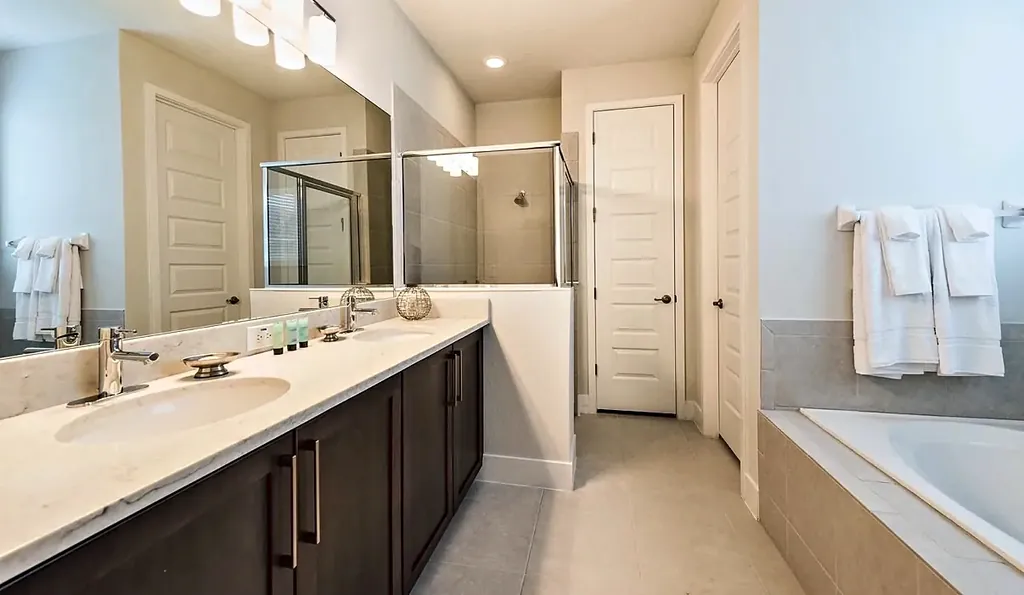
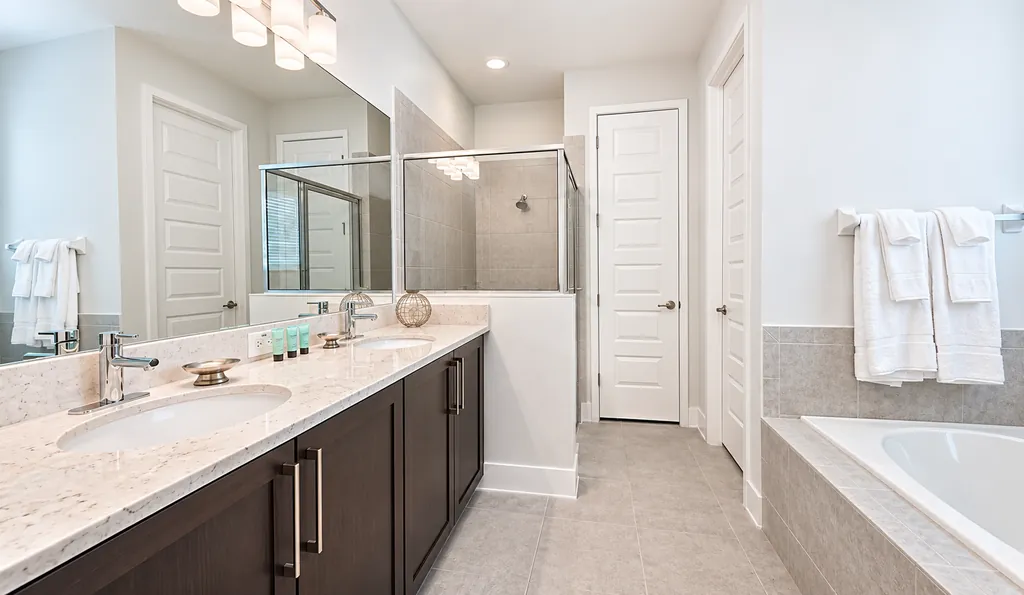
Replace double-vanity bathroom photo with the enhanced version

diff --git a/index.html b/index.html
@@ -9,7 +9,7 @@
 
   <meta property="og:title" content="Villa Serena · 8-Bedroom Private Pool Villa">
   <meta property="og:description" content="8 bedrooms · 8 bathrooms · 13 beds · private pool. Book your family's Orlando stay direct.">
-  <meta property="og:image" content="assets/img/pool-lanai.jpg?v=17">
+  <meta property="og:image" content="assets/img/pool-lanai.jpg?v=18">
   <meta property="og:type" content="website">
 
   <link rel="icon" href="assets/favicon.svg" type="image/svg+xml">
@@ -17,8 +17,8 @@
   <link rel="preconnect" href="https://fonts.gstatic.com" crossorigin>
   <link href="https://fonts.googleapis.com/css2?family=Newsreader:ital,opsz,wght@0,6..72,400;0,6..72,500;1,6..72,400&family=Instrument+Sans:wght@400;500;600&display=swap" rel="stylesheet">
 
-  <link rel="preload" as="image" href="assets/img/pool-lanai-1616.webp?v=17"
-        imagesrcset="assets/img/pool-lanai-640.webp?v=17 640w, assets/img/pool-lanai-1024.webp?v=17 1024w, assets/img/pool-lanai-1616.webp?v=17 1616w"
+  <link rel="preload" as="image" href="assets/img/pool-lanai-1616.webp?v=18"
+        imagesrcset="assets/img/pool-lanai-640.webp?v=18 640w, assets/img/pool-lanai-1024.webp?v=18 1024w, assets/img/pool-lanai-1616.webp?v=18 1616w"
         imagesizes="100vw" type="image/webp">
   <link rel="stylesheet" href="css/styles.css">
 </head>
@@ -79,9 +79,9 @@
   <div class="hero-media">
     <picture>
       <source type="image/webp"
-              srcset="assets/img/pool-lanai-640.webp?v=17 640w, assets/img/pool-lanai-1024.webp?v=17 1024w, assets/img/pool-lanai-1616.webp?v=17 1616w"
+              srcset="assets/img/pool-lanai-640.webp?v=18 640w, assets/img/pool-lanai-1024.webp?v=18 1024w, assets/img/pool-lanai-1616.webp?v=18 1616w"
               sizes="100vw">
-      <img src="assets/img/pool-lanai.jpg?v=17" alt="The villa's private pool and spa with sun loungers and a covered lanai" width="1616" height="967" fetchpriority="high">
+      <img src="assets/img/pool-lanai.jpg?v=18" alt="The villa's private pool and spa with sun loungers and a covered lanai" width="1616" height="967" fetchpriority="high">
     </picture>
   </div>
   <div class="hero-shade" aria-hidden="true"></div>
@@ -117,14 +117,14 @@
     <div class="welcome-media reveal">
       <figure class="wm-main">
         <picture>
-          <source type="image/webp" srcset="assets/img/exterior-front-640.webp?v=17 640w, assets/img/exterior-front-1024.webp?v=17 1024w, assets/img/exterior-front-1206.webp?v=17 1206w" sizes="(min-width: 960px) 40vw, 90vw">
-          <img src="assets/img/exterior-front.jpg?v=17" alt="Front exterior of the two-storey villa with a paver driveway" width="1206" height="712" loading="lazy" decoding="async">
+          <source type="image/webp" srcset="assets/img/exterior-front-640.webp?v=18 640w, assets/img/exterior-front-1024.webp?v=18 1024w, assets/img/exterior-front-1206.webp?v=18 1206w" sizes="(min-width: 960px) 40vw, 90vw">
+          <img src="assets/img/exterior-front.jpg?v=18" alt="Front exterior of the two-storey villa with a paver driveway" width="1206" height="712" loading="lazy" decoding="async">
         </picture>
       </figure>
       <figure class="wm-accent">
         <picture>
-          <source type="image/webp" srcset="assets/img/dining-living-640.webp?v=17 640w, assets/img/dining-living-1024.webp?v=17 1024w" sizes="(min-width: 960px) 22vw, 50vw">
-          <img src="assets/img/dining-living.jpg?v=17" alt="Open-plan dining area with a large table and the living room beyond" width="2560" height="1920" loading="lazy" decoding="async">
+          <source type="image/webp" srcset="assets/img/dining-living-640.webp?v=18 640w, assets/img/dining-living-1024.webp?v=18 1024w" sizes="(min-width: 960px) 22vw, 50vw">
+          <img src="assets/img/dining-living.jpg?v=18" alt="Open-plan dining area with a large table and the living room beyond" width="2560" height="1920" loading="lazy" decoding="async">
         </picture>
       </figure>
           </div>
@@ -135,15 +135,15 @@
 <section class="photo-band" aria-label="The kitchen and living room">
   <figure>
     <picture>
-      <source type="image/webp" srcset="assets/img/kitchen-640.webp?v=17 640w, assets/img/kitchen-1024.webp?v=17 1024w, assets/img/kitchen-1206.webp?v=17 1206w" sizes="(min-width: 760px) 50vw, 100vw">
-      <img src="assets/img/kitchen.jpg?v=17" alt="Kitchen with dark cabinets, stainless appliances and an island with four bar stools" width="1206" height="711" loading="lazy" decoding="async">
+      <source type="image/webp" srcset="assets/img/kitchen-640.webp?v=18 640w, assets/img/kitchen-1024.webp?v=18 1024w, assets/img/kitchen-1206.webp?v=18 1206w" sizes="(min-width: 760px) 50vw, 100vw">
+      <img src="assets/img/kitchen.jpg?v=18" alt="Kitchen with dark cabinets, stainless appliances and an island with four bar stools" width="1206" height="711" loading="lazy" decoding="async">
     </picture>
     <figcaption>Kitchen</figcaption>
   </figure>
   <figure>
     <picture>
-      <source type="image/webp" srcset="assets/img/living-room-640.webp?v=17 640w, assets/img/living-room-1024.webp?v=17 1024w, assets/img/living-room-1536.webp?v=17 1536w" sizes="(min-width: 760px) 50vw, 100vw">
-      <img src="assets/img/living-room.jpg?v=17" alt="Living room with sectional sofa and sliding doors to the pool" width="1536" height="1024" loading="lazy" decoding="async">
+      <source type="image/webp" srcset="assets/img/living-room-640.webp?v=18 640w, assets/img/living-room-1024.webp?v=18 1024w, assets/img/living-room-1536.webp?v=18 1536w" sizes="(min-width: 760px) 50vw, 100vw">
+      <img src="assets/img/living-room.jpg?v=18" alt="Living room with sectional sofa and sliding doors to the pool" width="1536" height="1024" loading="lazy" decoding="async">
     </picture>
     <figcaption>Living room</figcaption>
   </figure>
@@ -250,20 +250,20 @@
     <div class="villa-band reveal">
       <figure>
         <picture>
-          <source type="image/webp" srcset="assets/img/bedroom-twin-beds-640.webp?v=17 640w, assets/img/bedroom-twin-beds-1024.webp?v=17 1024w, assets/img/bedroom-twin-beds-1600.webp?v=17 1600w" sizes="(min-width: 960px) 33vw, 100vw">
-          <img src="assets/img/bedroom-twin-beds.jpg?v=17" alt="Bedroom with two beds, a tufted headboard and a mustard accent wall" width="2560" height="1920" loading="lazy" decoding="async">
+          <source type="image/webp" srcset="assets/img/bedroom-twin-beds-640.webp?v=18 640w, assets/img/bedroom-twin-beds-1024.webp?v=18 1024w, assets/img/bedroom-twin-beds-1600.webp?v=18 1600w" sizes="(min-width: 960px) 33vw, 100vw">
+          <img src="assets/img/bedroom-twin-beds.jpg?v=18" alt="Bedroom with two beds, a tufted headboard and a mustard accent wall" width="2560" height="1920" loading="lazy" decoding="async">
         </picture>
       </figure>
       <figure>
         <picture>
-          <source type="image/webp" srcset="assets/img/bunk-room-640.webp?v=17 640w, assets/img/bunk-room-1024.webp?v=17 1024w, assets/img/bunk-room-1600.webp?v=17 1600w" sizes="(min-width: 960px) 33vw, 100vw">
-          <img src="assets/img/bunk-room.jpg?v=17" alt="Kids' bunk room with a mural wall" width="2560" height="1920" loading="lazy" decoding="async">
+          <source type="image/webp" srcset="assets/img/bunk-room-640.webp?v=18 640w, assets/img/bunk-room-1024.webp?v=18 1024w, assets/img/bunk-room-1600.webp?v=18 1600w" sizes="(min-width: 960px) 33vw, 100vw">
+          <img src="assets/img/bunk-room.jpg?v=18" alt="Kids' bunk room with a mural wall" width="2560" height="1920" loading="lazy" decoding="async">
         </picture>
       </figure>
       <figure>
         <picture>
-          <source type="image/webp" srcset="assets/img/bathroom-double-vanity-640.webp?v=17 640w, assets/img/bathroom-double-vanity-1024.webp?v=17 1024w, assets/img/bathroom-double-vanity-1206.webp?v=17 1206w" sizes="(min-width: 960px) 33vw, 100vw">
-          <img src="assets/img/bathroom-double-vanity.jpg?v=17" alt="Bathroom with a vanity, glass shower and tub" width="1206" height="701" loading="lazy" decoding="async">
+          <source type="image/webp" srcset="assets/img/bathroom-double-vanity-640.webp?v=18 640w, assets/img/bathroom-double-vanity-1024.webp?v=18 1024w, assets/img/bathroom-double-vanity-1600.webp?v=18 1600w, assets/img/bathroom-double-vanity-1645.webp?v=18 1645w" sizes="(min-width: 960px) 33vw, 100vw">
+          <img src="assets/img/bathroom-double-vanity.jpg?v=18" alt="Bathroom with a double vanity, glass shower and tub" width="1645" height="956" loading="lazy" decoding="async">
         </picture>
       </figure>
     </div>
@@ -277,9 +277,9 @@
       <div class="amen-feature reveal">
         <figure class="amen-photo">
           <picture>
-            <source type="image/webp" media="(min-width: 641px) and (max-width: 960px)" srcset="assets/img/pool-deck-640.webp?v=17 640w, assets/img/pool-deck-1024.webp?v=17 1024w, assets/img/pool-deck-1206.webp?v=17 1206w" sizes="100vw">
-            <source type="image/webp" srcset="assets/img/pool-deck-tall-640.webp?v=17 640w, assets/img/pool-deck-tall-1024.webp?v=17 1024w, assets/img/pool-deck-tall-1086.webp?v=17 1086w" sizes="(min-width: 960px) 45vw, 100vw">
-            <img src="assets/img/pool-deck-tall.jpg?v=17" alt="Pool deck with spa, loungers and outdoor dining under a blue sky" width="1086" height="1448" loading="lazy" decoding="async">
+            <source type="image/webp" media="(min-width: 641px) and (max-width: 960px)" srcset="assets/img/pool-deck-640.webp?v=18 640w, assets/img/pool-deck-1024.webp?v=18 1024w, assets/img/pool-deck-1206.webp?v=18 1206w" sizes="100vw">
+            <source type="image/webp" srcset="assets/img/pool-deck-tall-640.webp?v=18 640w, assets/img/pool-deck-tall-1024.webp?v=18 1024w, assets/img/pool-deck-tall-1086.webp?v=18 1086w" sizes="(min-width: 960px) 45vw, 100vw">
+            <img src="assets/img/pool-deck-tall.jpg?v=18" alt="Pool deck with spa, loungers and outdoor dining under a blue sky" width="1086" height="1448" loading="lazy" decoding="async">
           </picture>
           <figcaption>
             <strong>Fully private pool area</strong>
@@ -337,29 +337,29 @@
     <div class="amen-strip reveal" aria-label="More of the villa">
       <figure>
         <picture>
-          <source type="image/webp" srcset="assets/img/sitting-area-640.webp?v=17 640w, assets/img/sitting-area-1024.webp?v=17 1024w, assets/img/sitting-area-1600.webp?v=17 1600w" sizes="(min-width: 960px) 25vw, 70vw">
-          <img src="assets/img/sitting-area.jpg?v=17" alt="Sitting area with two armchairs and large blue and gold artwork" width="2560" height="1920" loading="lazy" decoding="async">
+          <source type="image/webp" srcset="assets/img/sitting-area-640.webp?v=18 640w, assets/img/sitting-area-1024.webp?v=18 1024w, assets/img/sitting-area-1600.webp?v=18 1600w" sizes="(min-width: 960px) 25vw, 70vw">
+          <img src="assets/img/sitting-area.jpg?v=18" alt="Sitting area with two armchairs and large blue and gold artwork" width="2560" height="1920" loading="lazy" decoding="async">
         </picture>
         <figcaption>Sitting area</figcaption>
       </figure>
       <figure>
         <picture>
-          <source type="image/webp" srcset="assets/img/home-theater-640.webp?v=17 640w, assets/img/home-theater-1024.webp?v=17 1024w, assets/img/home-theater-1206.webp?v=17 1206w" sizes="(min-width: 960px) 25vw, 70vw">
-          <img src="assets/img/home-theater.jpg?v=17" alt="Home theater with a large screen and recliner seating" width="1206" height="800" loading="lazy" decoding="async">
+          <source type="image/webp" srcset="assets/img/home-theater-640.webp?v=18 640w, assets/img/home-theater-1024.webp?v=18 1024w, assets/img/home-theater-1206.webp?v=18 1206w" sizes="(min-width: 960px) 25vw, 70vw">
+          <img src="assets/img/home-theater.jpg?v=18" alt="Home theater with a large screen and recliner seating" width="1206" height="800" loading="lazy" decoding="async">
         </picture>
         <figcaption>Home theater</figcaption>
       </figure>
       <figure>
         <picture>
-          <source type="image/webp" srcset="assets/img/game-room-640.webp?v=17 640w, assets/img/game-room-1024.webp?v=17 1024w, assets/img/game-room-1600.webp?v=17 1600w" sizes="(min-width: 960px) 25vw, 70vw">
-          <img src="assets/img/game-room.jpg?v=17" alt="Game room with table tennis, foosball and an arcade cabinet" width="2560" height="1920" loading="lazy" decoding="async">
+          <source type="image/webp" srcset="assets/img/game-room-640.webp?v=18 640w, assets/img/game-room-1024.webp?v=18 1024w, assets/img/game-room-1600.webp?v=18 1600w" sizes="(min-width: 960px) 25vw, 70vw">
+          <img src="assets/img/game-room.jpg?v=18" alt="Game room with table tennis, foosball and an arcade cabinet" width="2560" height="1920" loading="lazy" decoding="async">
         </picture>
         <figcaption>Game room</figcaption>
       </figure>
       <figure>
         <picture>
-          <source type="image/webp" srcset="assets/img/dining-room-640.webp?v=17 640w, assets/img/dining-room-1024.webp?v=17 1024w, assets/img/dining-room-1600.webp?v=17 1600w" sizes="(min-width: 960px) 25vw, 70vw">
-          <img src="assets/img/dining-room.jpg?v=17" alt="Dining room with a large white table and chandelier" width="2560" height="1920" loading="lazy" decoding="async">
+          <source type="image/webp" srcset="assets/img/dining-room-640.webp?v=18 640w, assets/img/dining-room-1024.webp?v=18 1024w, assets/img/dining-room-1600.webp?v=18 1600w" sizes="(min-width: 960px) 25vw, 70vw">
+          <img src="assets/img/dining-room.jpg?v=18" alt="Dining room with a large white table and chandelier" width="2560" height="1920" loading="lazy" decoding="async">
         </picture>
         <figcaption>Dining</figcaption>
       </figure>
@@ -431,8 +431,8 @@
 <section class="book" id="book">
   <div class="book-media" aria-hidden="true">
     <picture>
-      <source type="image/webp" srcset="assets/img/exterior-front-640.webp?v=17 640w, assets/img/exterior-front-1024.webp?v=17 1024w, assets/img/exterior-front-1206.webp?v=17 1206w" sizes="100vw">
-      <img src="assets/img/exterior-front.jpg?v=17" alt="" width="1206" height="712" loading="lazy" decoding="async">
+      <source type="image/webp" srcset="assets/img/exterior-front-640.webp?v=18 640w, assets/img/exterior-front-1024.webp?v=18 1024w, assets/img/exterior-front-1206.webp?v=18 1206w" sizes="100vw">
+      <img src="assets/img/exterior-front.jpg?v=18" alt="" width="1206" height="712" loading="lazy" decoding="async">
     </picture>
   </div>
   <div class="book-shade" aria-hidden="true"></div>

diff --git a/js/main.js b/js/main.js
@@ -27,7 +27,7 @@ const PHOTOS = [
   { slug: "bunk-room",             cat: "bedrooms",  caption: "Kids' bunk room",                    w: 2560 },
   { slug: "bedroom-teal",          cat: "bedrooms",  caption: "Bedroom",                            w: 2560, size: "wide" },
   { slug: "pool-deck",             cat: "outdoor",   caption: "Pool deck & sun loungers",           w: 1206, size: "wide" },
-  { slug: "bathroom-double-vanity",cat: "bathrooms", caption: "Bathroom with tub",                 w: 1206, size: "wide" },
+  { slug: "bathroom-double-vanity",cat: "bathrooms", caption: "Bathroom with double vanity & tub",  w: 1645, size: "wide", ws: [640, 1024, 1600, 1645] },
   // ---- shown after "View all photos" ----
   { slug: "dining-living",         cat: "living",    caption: "Open-plan dining & living",          w: 2560, size: "wide" },
   { slug: "bedroom-twin-beds",     cat: "bedrooms",  caption: "Bedroom",                            w: 2560, size: "wide" },
@@ -45,7 +45,7 @@ const PHOTOS = [
 ];
 const INITIAL_COUNT = 4;
 const IMG = "assets/img/";
-const IMG_V = "?v=17"; // bump when photos change so browsers fetch the new files
+const IMG_V = "?v=18"; // bump when photos change so browsers fetch the new files
 
 const widthsFor = (p) => p.ws || (p.w > 1206 ? [640, 1024, 1600, 2200] : [640, 1024, 1206]);
 const srcset = (p, max = Infinity) =>

diff --git a/README.md b/README.md
@@ -104,4 +104,4 @@ it, then repeat the polish and the wall recolour.
 
 Browsers keep photos for a day (see `vercel.json`). When a photo changes, bump the
 version tag so visitors get the new file right away: `IMG_V` at the top of `js/main.js`
-and every `?v=` in `index.html` (find and replace `?v=17` with `?v=18`).
+and every `?v=` in `index.html` (find and replace `?v=18` with `?v=19`).
